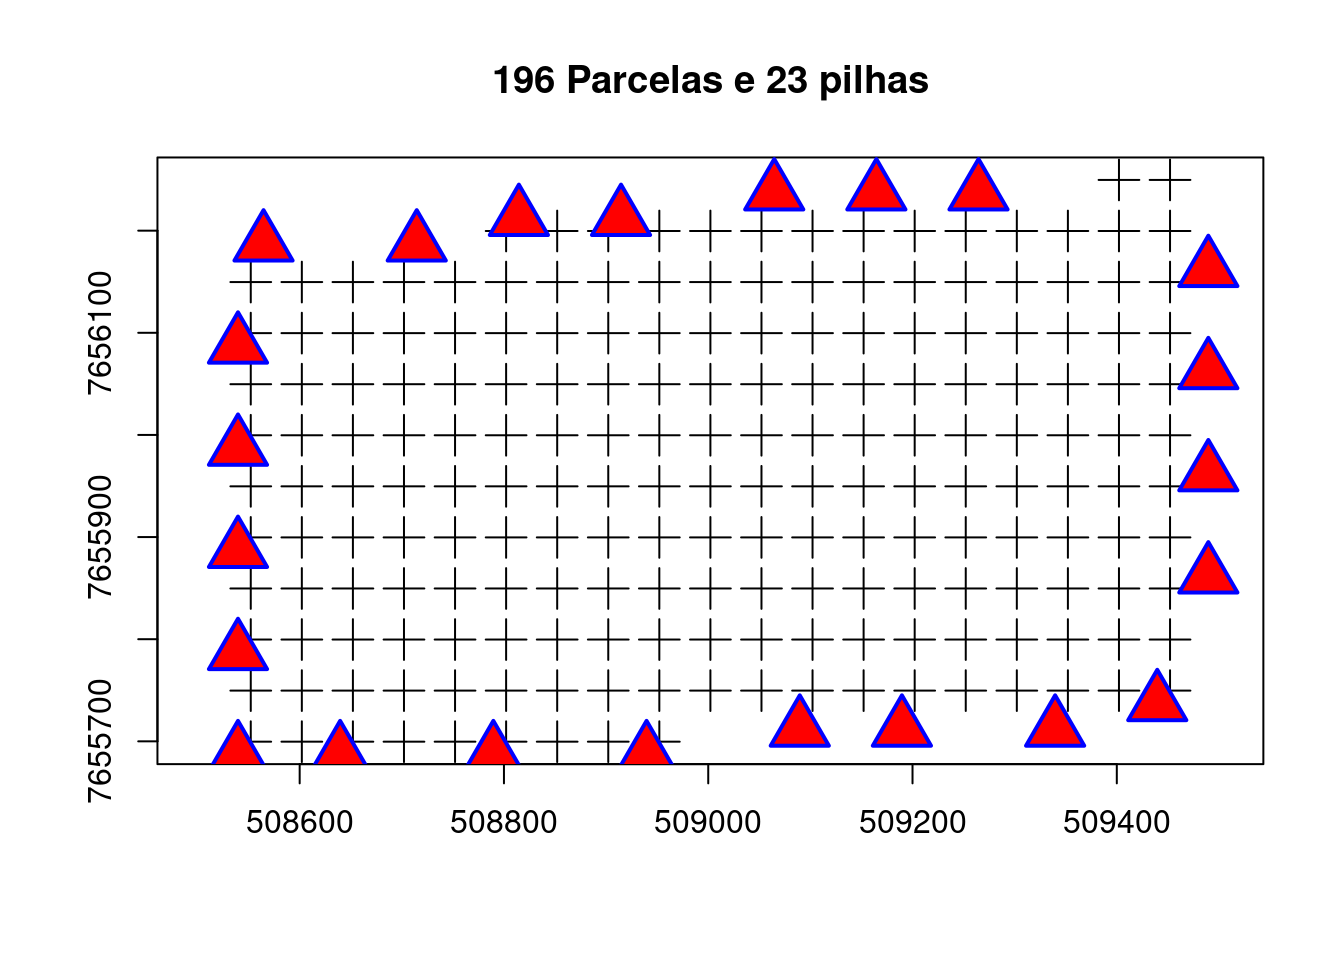
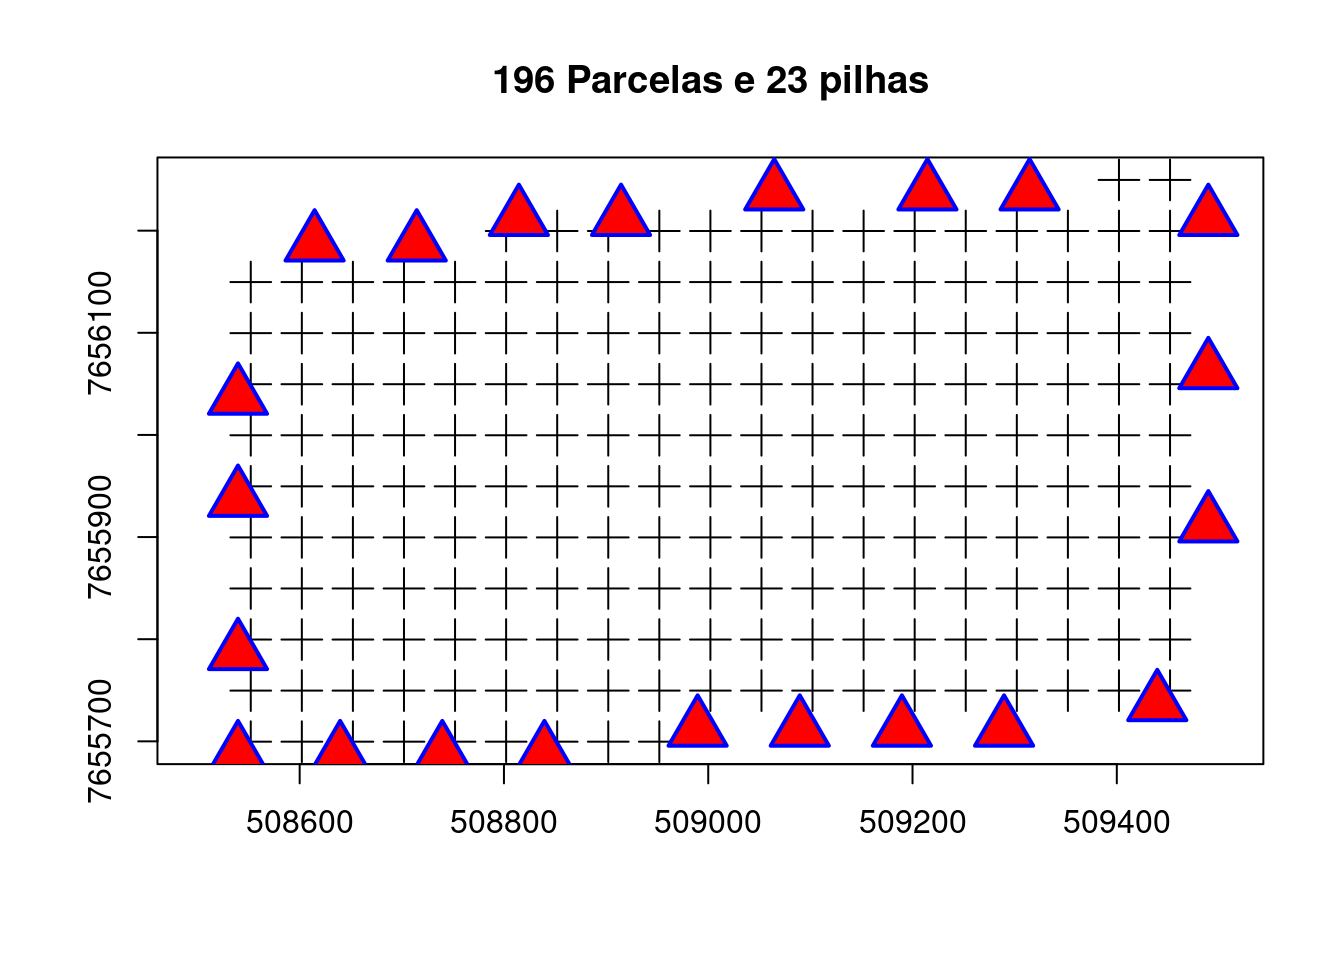
commit post p-mediana intro

diff --git a/docs/otimização-do-custo-de-extração-por-arraste/index.html b/docs/otimização-do-custo-de-extração-por-arraste/index.html
@@ -138,8 +138,12 @@
     </div>
 
     <div class="article-content e-content" itemprop="articleBody">
-        <p>A extração por arraste é uma etapa crucial da colheita florestal, onde as toras são transportadas da área de corte até os pátios de estocagem ou a estrada. Esse processo apresenta desafios significativos, como o desgaste do maquinário, a necessidade de minimizar a distância percorrida e o tempo de operação, além de reduzir os impactos ambientais, como a compactação do solo e a abertura de trilhas temporárias.</p>
-<p>Otimizar essa operação é essencial para manter os custos sob controle e garantir uma colheita eficiente. Uma das formas de otimização é através da programação linear, com métodos como o da p-mediana, que ajuda a definir o número e a localização ideal dos pátios de estocagem. Essa abordagem minimiza as distâncias e os custos de arraste, resultando em uma operação mais econômica e sustentável, além de melhorar a logística e reduzir o tempo de transporte. Em um contexto florestal, a aplicação de tais soluções representa um avanço na gestão eficiente dos recursos naturais.</p>
+        <p>A extração por arraste é uma etapa da colheita florestal onde as toras são transportadas da área de corte até a margem do talhão, estrada ou pátio intermediário.</p>
+<p>A distância de extração tem impacto direto nos custos da operação de colheita florestal. Quanto maior a distância entre a área de corte e o pátio de estocagem, maior é o tempo gasto e o consumo de combustível dos equipamentos de arraste, o que eleva os custos operacionais. Além disso, distâncias maiores aumentam o desgaste das máquinas e a necessidade de manutenção, além de prolongarem o ciclo de trabalho, reduzindo a produtividade da equipe.</p>
+<p>Otimizar a localização das pilhas de estocagem para minimizar essas distâncias é essencial para uma operação mais econômica e eficiente.</p>
+<p>O método da p-mediana é amplamente utilizado em problemas de localização, como a seleção de pátios de estocagem na colheita florestal, em que é necessário escolher p locais que minimizem a distância total (ou custo) entre os pontos de demanda (como áreas de corte) e os pontos de suprimento (como pátios).</p>
+<p>Esse post é um caderno cujo o intuito foi de desenvolver e explorar habilidades envolvendo a utilização de ferramentas de Geoprocessamento e de Programação Linear aplicado ao problema de otimização da localização de pilhas na colheita florestal. O custo foi calculado a partir da distância euclidiana com o trânsito das máquinas sobre os tocos na linha de plantio não sendo incluido como restrição.</p>
+<p>Esse esforço me permitiu exercitar o aprendizado em modelagem, onde descobri ferramentas de modelagem e solvers livres e de código aberto, que permitem resolver o problema sem nenhum custo. As bibliotecas ROI e OMPR possibilitam padronizar a contrução dos modelos pois são compatíveis com diferentes solvers, incluindo softwares proprietários (excelente!). Não foi preciso aprender como o mesmo modelo deve ser passado para cada solvers à depender do solver que está utilizando. Apliquei o mesmo modelo nos solvers SYMPONHY e glpk e tudo funcionou bem.</p>
 <h2 id="1--problema-proposto">1)  Problema proposto</h2>
 <p>A área a ser trabalhada pela equipe de planejamento florestal encontra-se localizada no projeto Ferradura, sendo selecionado apenas talhões com idade superior a 3 anos. O mapa a seguir é uma representação da área em análise, que compreende um total de 90 talhões e 4.561 ha com plantio de
 Eucaliptus spp.</p>

diff --git a/content/post/2024-11-12-otimizacaodo-custo-de-extracao-por-arraste/index.md b/content/post/2024-11-12-otimizacaodo-custo-de-extracao-por-arraste/index.md
@@ -11,11 +11,19 @@ output:
 ---
   
   
-  A extração por arraste é uma etapa crucial da colheita florestal, onde as toras são transportadas da área de corte até os pátios de estocagem ou a estrada. Esse processo apresenta desafios significativos, como o desgaste do maquinário, a necessidade de minimizar a distância percorrida e o tempo de operação, além de reduzir os impactos ambientais, como a compactação do solo e a abertura de trilhas temporárias.
+  A extração por arraste é uma etapa da colheita florestal onde as toras são transportadas da área de corte até a margem do talhão, estrada ou pátio intermediário.
+  
+  A distância de extração tem impacto direto nos custos da operação de colheita florestal. Quanto maior a distância entre a área de corte e o pátio de estocagem, maior é o tempo gasto e o consumo de combustível dos equipamentos de arraste, o que eleva os custos operacionais. Além disso, distâncias maiores aumentam o desgaste das máquinas e a necessidade de manutenção, além de prolongarem o ciclo de trabalho, reduzindo a produtividade da equipe.
+  
+  Otimizar a localização das pilhas de estocagem para minimizar essas distâncias é essencial para uma operação mais econômica e eficiente.
+  
+ O método da p-mediana é amplamente utilizado em problemas de localização, como a seleção de pátios de estocagem na colheita florestal, em que é necessário escolher p locais que minimizem a distância total (ou custo) entre os pontos de demanda (como áreas de corte) e os pontos de suprimento (como pátios).
+ 
+ Esse post é um caderno cujo o intuito foi de desenvolver e explorar habilidades envolvendo a utilização de ferramentas de Geoprocessamento e de Programação Linear aplicado ao problema de otimização da localização de pilhas na colheita florestal. O custo foi calculado a partir da distância euclidiana com o trânsito das máquinas sobre os tocos na linha de plantio não sendo incluido como restrição. 
+ 
+Esse esforço me permitiu exercitar o aprendizado em modelagem, onde descobri ferramentas de modelagem e solvers livres e de código aberto, que permitem resolver o problema sem nenhum custo. As bibliotecas ROI e OMPR possibilitam padronizar a contrução dos modelos pois são compatíveis com diferentes solvers, incluindo softwares proprietários (excelente!). Não foi preciso aprender como o mesmo modelo deve ser passado para cada solvers à depender do solver que está utilizando. Apliquei o mesmo modelo nos solvers SYMPONHY e glpk e tudo funcionou bem.   
+  
 
-  Otimizar essa operação é essencial para manter os custos sob controle e garantir uma colheita eficiente. Uma das formas de otimização é através da programação linear, com métodos como o da p-mediana, que ajuda a definir o número e a localização ideal dos pátios de estocagem. Essa abordagem minimiza as distâncias e os custos de arraste, resultando em uma operação mais econômica e sustentável, além de melhorar a logística e reduzir o tempo de transporte. Em um contexto florestal, a aplicação de tais soluções representa um avanço na gestão eficiente dos recursos naturais.
-  
-  
   
 ## 1)  Problema proposto
   
